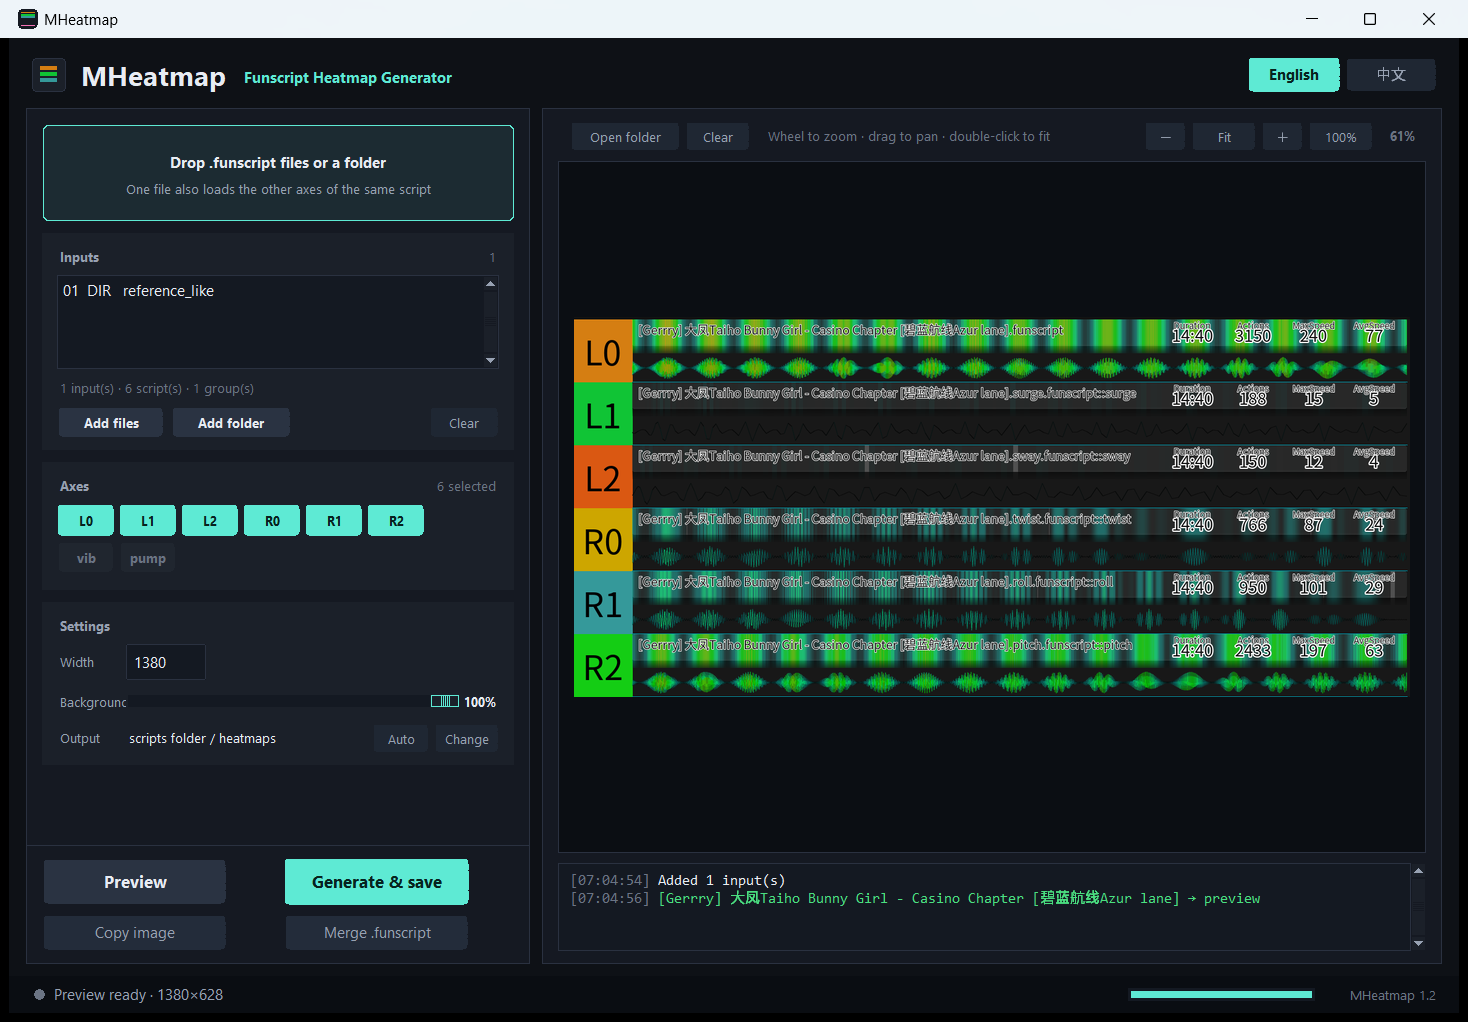
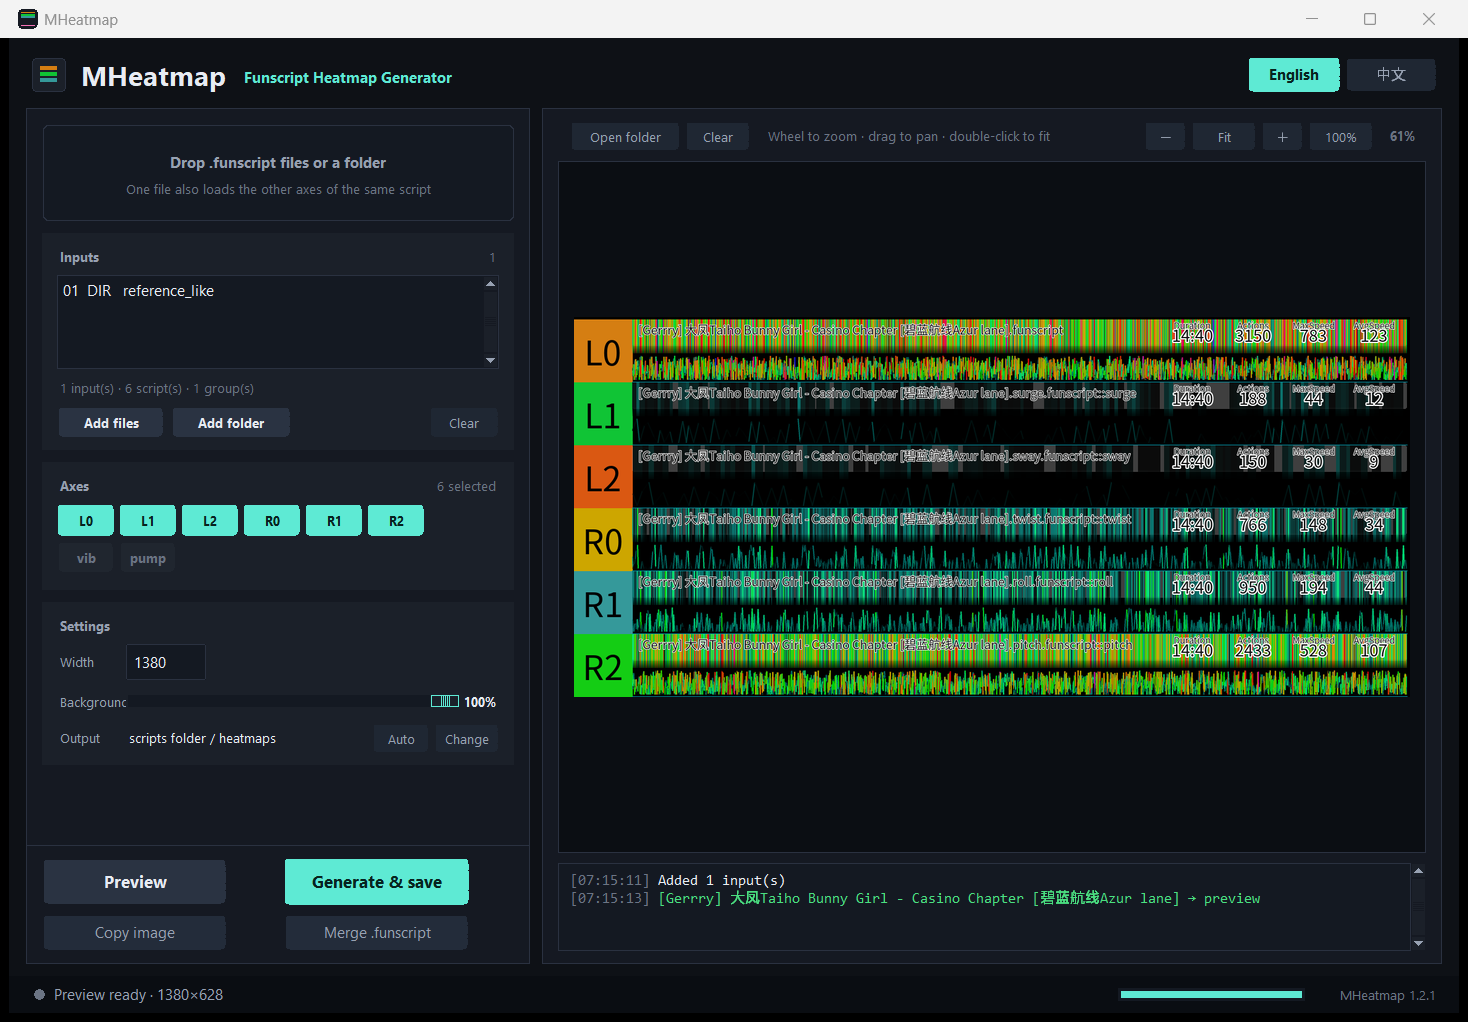
fix(1.2.1): match reference heatmap colours (opaque band, linear palette, black canvas, thicker curve)

diff --git a/mheatmap/core.py b/mheatmap/core.py
@@ -17,7 +17,7 @@ from pathlib import Path
 from PIL import Image, ImageDraw, ImageFilter, ImageFont
 
 APP_NAME = "MHeatmap"
-VERSION = "1.2"
+VERSION = "1.2.1"
 
 # ------------------------------------------------------------------ geometry
 TOP_MARGIN = 4
@@ -32,7 +32,8 @@ MIN_WIDTH = 640
 MAX_WIDTH = 4096
 DEFAULT_WIDTH = 1380
 DEFAULT_MAX_SPEED = 2000.0
-BAND_ALPHA_BOOST = 1.35
+BAND_ALPHA = 212          # 色带主体固定不透明度（参考图实测 202）
+BAND_TAIL_ALPHA = 0.21    # 色带底部 16 行的不透明度比例
 
 # ------------------------------------------------------------------ axes
 # (name, label colour, filename tokens)
@@ -365,8 +366,7 @@ def draw_band(image, actions, duration_ms, x, y, width, max_speed, stops=OFS_STO
             columns.append((0, 0, 0, 0))
             continue
         color = color_at(clamp(intensity ** gamma, 0.0, 1.0), stops)
-        alpha = int(round((92 + 118 * math.sqrt(intensity)) * BAND_ALPHA_BOOST))
-        columns.append((color[0], color[1], color[2], min(255, alpha)))
+        columns.append((color[0], color[1], color[2], BAND_ALPHA))
 
     data = []
     tail = max(1, BAND_HEIGHT - BAND_SOLID - 1)
@@ -402,7 +402,7 @@ def draw_curve(image, actions, duration_ms, x, y, width, height, max_speed,
             continue
         speed = abs(p1 - p0) * 1000.0 / delta
         rgb = color_at(clamp(speed / max_speed, 0.0, 1.0), stops)
-        draw.line((point((a0, p0)), point((a1, p1))), fill=(*rgb, 190), width=scale)
+        draw.line((point((a0, p0)), point((a1, p1))), fill=(*rgb, 215), width=scale * 2)
     overlay = overlay.resize((width, height), Image.LANCZOS)
     image.alpha_composite(overlay, (x, y))
 
@@ -424,7 +424,7 @@ def render_group(axes: dict[str, Path], width: int = DEFAULT_WIDTH, bg_opacity: 
     width = int(clamp(int(width), MIN_WIDTH, MAX_WIDTH))
     height = TOP_MARGIN + ROW_HEIGHT * len(rows)
     bg_alpha = int(clamp(int(bg_opacity), 0, 100) * 255 // 100)
-    image = Image.new("RGBA", (width, height), (18, 18, 18, bg_alpha))
+    image = Image.new("RGBA", (width, height), (0, 0, 0, bg_alpha))
     draw = ImageDraw.Draw(image)
     plot_x = AXIS_COLUMN
     plot_w = width - plot_x - RIGHT_PAD
@@ -446,7 +446,7 @@ def render_group(axes: dict[str, Path], width: int = DEFAULT_WIDTH, bg_opacity: 
         use_duration = duration or axis_duration
 
         if bg_alpha:
-            draw.rectangle((0, y, width, y + ROW_HEIGHT), fill=(24, 24, 24, bg_alpha))
+            draw.rectangle((0, y, width, y + ROW_HEIGHT), fill=(0, 0, 0, bg_alpha))
         draw.rectangle((0, y, plot_x, y + ROW_HEIGHT), fill=(*axis_colour, 255))
         font_axis = load_font(56)
         while font_axis.size > 18 and draw.textlength(axis_name, font=font_axis) > plot_x - 10:

diff --git a/tools/make_reference_like.py b/tools/make_reference_like.py
@@ -1,0 +1,70 @@
+"""生成与参考图统计量接近的六轴脚本（用于对比配色/样式）。"""
+from __future__ import annotations
+
+import json
+import math
+import random
+from pathlib import Path
+
+OUT = Path(r"D:\AI自写软件\heatmapgen-ui\refs\reference_like")
+NAME = "[Gerrry] 大凤Taiho Bunny Girl - Casino Chapter [碧蓝航线Azur lane]"
+DURATION_MS = 880_000
+
+# axis token -> (action count, max speed, burstiness)
+AXES = (
+    ("", 3150, 586, 0.55),
+    (".surge", 188, 234, 0.25),
+    (".sway", 150, 283, 0.2),
+    (".twist", 766, 426, 0.5),
+    (".roll", 950, 450, 0.5),
+    (".pitch", 2433, 458, 0.6),
+)
+
+random.seed(20261123)
+
+
+def build(count: int, target: float, burst: float):
+    """Random walk whose segment speeds peak near ``target``."""
+    actions, position = [], 50.0
+    step = DURATION_MS / max(1, count)
+    for index in range(count):
+        at = int(index * step + random.uniform(-step * 0.3, step * 0.3))
+        at = max(0, min(DURATION_MS, at))
+        actions.append([at, int(round(position))])
+        delta_t = max(16, int(step * random.uniform(0.5, 1.5)))
+        # bursts: most segments slow, some reach the target speed
+        if random.random() < burst:
+            speed = target * random.uniform(0.45, 1.0)
+        else:
+            speed = target * random.uniform(0.01, 0.18)
+        change = speed * delta_t / 1000.0
+        if position + change > 100:
+            position = 100 - (change - (100 - position))
+        elif position - change < 0:
+            position = -(position - change) if (position - change) > -100 else 0
+        else:
+            position += change * random.choice((-1, 1))
+        position = max(0.0, min(100.0, position))
+    actions.sort(key=lambda item: item[0])
+    # 去重时间戳
+    dedup, seen = [], set()
+    for at, pos in actions:
+        if at in seen:
+            continue
+        seen.add(at)
+        dedup.append({"at": at, "pos": pos})
+    return dedup
+
+
+OUT.mkdir(parents=True, exist_ok=True)
+for suffix, count, target, burst in AXES:
+    actions = build(count, target, burst)
+    data = {"version": "1.0", "inverted": False, "range": 100, "actions": actions,
+            "metadata": {"title": NAME, "duration": DURATION_MS}}
+    path = OUT / f"{NAME}{suffix}.funscript"
+    path.write_text(json.dumps(data, ensure_ascii=False), encoding="utf-8")
+
+    speeds = [abs(b["pos"] - a["pos"]) * 1000 / (b["at"] - a["at"])
+              for a, b in zip(actions, actions[1:]) if b["at"] > a["at"]]
+    print(f"{suffix or '.l0':7s} {len(actions):5d} actions  max={max(speeds):6.0f}  "
+          f"avg={sum(speeds)/len(speeds):6.1f}  -> {path.name}")

diff --git a/app.py b/app.py
@@ -38,7 +38,7 @@ except Exception:  # noqa: BLE001
     HAS_DND = False
 
 APP_TITLE = "MHeatmap"
-UI_VERSION = "1.2"
+UI_VERSION = "1.2.1"
 
 # ---------------------------------------------------------------- theme
 BG = "#0e1116"

diff --git a/packaging/release-notes-1.2.1.md b/packaging/release-notes-1.2.1.md
@@ -1,0 +1,32 @@
+MHeatmap 1.2.1 — heatmap colours / style fixed to match the reference
+======================================================================
+
+What changed
+------------
+
+The heat band now looks like the reference picture instead of the washed-out
+version from 1.2.0:
+
+- **Constant, high band opacity** (212 instead of an intensity-scaled
+  92…210 with a 1.35 boost). Slow segments are just as solid as fast ones, so
+  the colours stay saturated.
+- **Colour lookup is linear again** (no smoothstep) — the band shows the actual
+  palette hues (green → yellow → orange → red → magenta) at full strength.
+- **Black row background** (pure #000 instead of #181818 / #242424), matching
+  the reference’s black canvas.
+- **Hard band edge**: 40 px solid band + 16 px at ~21 % instead of a long
+  gradient fade.
+- **Thicker speed curve** (2 px) with a bit more alpha, like the reference.
+
+Everything else from 1.2.0 is unchanged: new rounded UI, copy-to-clipboard,
+standalone “Merge .funscript”, single OFS palette, background-opacity slider,
+axis pills, EN/中文.
+
+Also a small robustness fix: after a preview is shown the window re-fits once
+the layout settles, so the preview never starts out cropped.
+
+Checks
+------
+
+`python tools/run_checks.py` — all green (rendering, background alpha values,
+axis filtering, merge output, clipboard formats, UI flow, first-run language).
